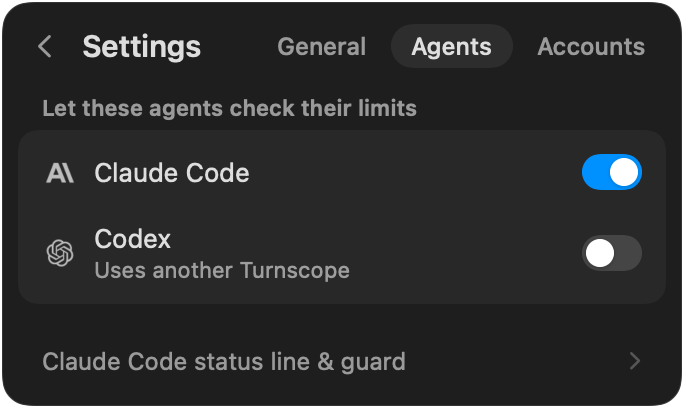
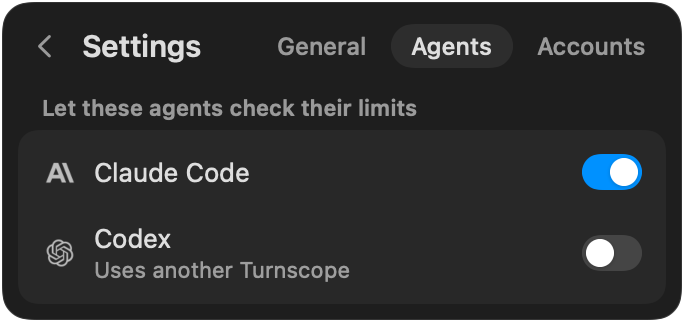
Remove Claude-only status line and guard snippets from Settings

diff --git a/apps/macos/Sources/Settings/AgentsTab.swift b/apps/macos/Sources/Settings/AgentsTab.swift
@@ -10,14 +10,8 @@ struct AgentsTab: View {
         if let empty = settings.agentsEmpty {
             EmptyTabMessage(message: empty)
         } else {
-            let extraAgents = settings.agents.filter { !$0.snippets.isEmpty }
-            VStack(alignment: .leading, spacing: 14) {
-                SettingGroup(title: settings.agentsTitle) {
-                    ForEach(settings.agents) { AgentRow(agent: $0) }
-                }
-                ForEach(extraAgents) { agent in
-                    AgentSnippets(agent: agent)
-                }
+            SettingGroup(title: settings.agentsTitle) {
+                ForEach(settings.agents) { AgentRow(agent: $0) }
             }
         }
     }
@@ -60,90 +54,6 @@ private struct AgentRow: View {
                 )
             )
             .disabled(!agent.enabled)
-        }
-        .padding(Row.padding)
-        .frame(minHeight: Row.setting)
-    }
-}
-
-private struct AgentSnippets: View {
-    @Environment(UIState.self) private var ui
-    var agent: AgentRowModel
-    @State private var hover = false
-
-    var body: some View {
-        let open = ui.openSnippets.contains(agent.id)
-        VStack(alignment: .leading, spacing: Row.spacing) {
-            Button { ui.toggleSnippets(agent.id) } label: {
-                HStack(spacing: 8) {
-                    Text("\(agent.name) status line & guard")
-                        .font(.line)
-                        .foregroundStyle(.secondary)
-                        .frame(maxWidth: .infinity, alignment: .leading)
-                    Image(systemName: "chevron.right")
-                        .font(.system(size: 10, weight: .semibold))
-                        .foregroundStyle(.tertiary)
-                        .rotationEffect(.degrees(open ? 90 : 0))
-                }
-                .padding(Row.padding)
-            }
-            .buttonStyle(RowSurfaceButtonStyle(hover: hover))
-            .onHover { over in withAnimation(.easeOut(duration: 0.10)) { hover = over } }
-            .accessibilityHint(open ? "Folds them" : "Lists copyable JSON snippets")
-
-            if open {
-                VStack(alignment: .leading, spacing: 0) {
-                    ForEach(agent.snippets) { snippet in
-                        SnippetRow(snippet: snippet)
-                    }
-                    if let file = agent.snippets.first?.file {
-                        Text("Paste into \(file). Turnscope never edits it.")
-                            .font(.small)
-                            .foregroundStyle(.tertiary)
-                            .padding(.horizontal, 12)
-                            .padding(.top, 2)
-                            .padding(.bottom, 6)
-                    }
-                }
-                .padding(.vertical, 3)
-                .background(
-                    RoundedRectangle(cornerRadius: Row.radius, style: .continuous)
-                        .fill(Color.primary.opacity(0.05))
-                )
-                .transition(appears)
-            }
-        }
-    }
-}
-
-private struct SnippetRow: View {
-    var snippet: SnippetModel
-    @State private var copied = false
-    @State private var clearCopy: Task<Void, Never>?
-
-    var body: some View {
-        HStack(spacing: Row.gap) {
-            VStack(alignment: .leading, spacing: 1) {
-                Text(snippet.title).font(.name)
-                Text(snippet.detail)
-                    .font(.small)
-                    .foregroundStyle(.secondary)
-                    .fixedSize(horizontal: false, vertical: true)
-            }
-            .frame(maxWidth: .infinity, alignment: .leading)
-            Button(copied ? "Copied" : "Copy JSON") {
-                copyToPasteboard(snippet.json)
-                clearCopy?.cancel()
-                withAnimation(.easeOut(duration: 0.12)) { copied = true }
-                clearCopy = Task { @MainActor in
-                    try? await Task.sleep(for: .seconds(1.5))
-                    guard !Task.isCancelled else { return }
-                    withAnimation(.easeOut(duration: 0.16)) { copied = false }
-                }
-            }
-            .buttonStyle(PillButton())
-            .help("Copies JSON snippet for \(snippet.file)")
-            .accessibilityLabel("Copy \(snippet.title) JSON")
         }
         .padding(Row.padding)
         .frame(minHeight: Row.setting)

diff --git a/apps/macos/Sources/Bridge.swift b/apps/macos/Sources/Bridge.swift
@@ -51,7 +51,6 @@ final class UIState {
     var openAccount: String?
     var unusedOpen = false
     var hiddenShown = false
-    var openSnippets: Set<String> = []
     var pendingAccount: String?
     var focusNonce = 0
 
@@ -61,7 +60,6 @@ final class UIState {
         openAccount = nil
         unusedOpen = false
         hiddenShown = false
-        openSnippets = []
         pendingAccount = nil
     }
 
@@ -115,14 +113,6 @@ final class UIState {
     func toggleHidden() {
         withAnimation(spring) {
             hiddenShown.toggle()
-        }
-    }
-
-    func toggleSnippets(_ agent: String) {
-        withAnimation(spring) {
-            if !openSnippets.insert(agent).inserted {
-                openSnippets.remove(agent)
-            }
         }
     }
 

diff --git a/apps/macos/Sources/Models.swift b/apps/macos/Sources/Models.swift
@@ -240,15 +240,6 @@ struct EmptyMessage: Decodable, Equatable {
     var detail: String
 }
 
-struct SnippetModel: Decodable, Equatable, Identifiable {
-    var title: String
-    var detail: String
-    var file: String
-    var json: String
-
-    var id: String { title }
-}
-
 struct AgentRowModel: Decodable, Equatable, Identifiable {
     var id: String
     var name: String
@@ -257,7 +248,6 @@ struct AgentRowModel: Decodable, Equatable, Identifiable {
     var changing: String?
     var connected: Bool
     var enabled: Bool
-    var snippets: [SnippetModel]
 }
 
 struct AccountSwitchModel: Decodable, Equatable, Identifiable {

diff --git a/crates/turnscope-app/src/view.rs b/crates/turnscope-app/src/view.rs
@@ -171,15 +171,6 @@ pub struct EmptyMessage {
 
 #[derive(Clone, Debug, PartialEq, Eq, Serialize)]
 #[serde(rename_all = "camelCase")]
-pub struct SnippetModel {
-    pub title: String,
-    pub detail: String,
-    pub file: String,
-    pub json: String,
-}
-
-#[derive(Clone, Debug, PartialEq, Eq, Serialize)]
-#[serde(rename_all = "camelCase")]
 pub struct AgentRowModel {
     pub id: String,
     pub name: String,
@@ -188,7 +179,6 @@ pub struct AgentRowModel {
     pub changing: Option<String>,
     pub connected: bool,
     pub enabled: bool,
-    pub snippets: Vec<SnippetModel>,
 }
 
 #[derive(Clone, Debug, PartialEq, Eq, Serialize)]
@@ -459,10 +449,9 @@ fn build_settings(s: &State) -> SettingsModel {
         EmptyMessage { headline, detail }
     });
     let agents_title = words::agents_title(s.from_disk_image).to_owned();
-    let binary = crate::binary().to_string_lossy().into_owned();
     let agents = installed
         .iter()
-        .map(|agent| build_agent_row(s, agent, &binary))
+        .map(|agent| build_agent_row(s, agent))
         .collect();
 
     let accounts_empty = s.all().is_empty().then(|| {
@@ -507,30 +496,12 @@ fn build_settings(s: &State) -> SettingsModel {
     }
 }
 
-fn build_agent_row(s: &State, agent: &Agent, binary: &str) -> AgentRowModel {
+fn build_agent_row(s: &State, agent: &Agent) -> AgentRowModel {
     let changing = s.changing_agents.get(&agent.id).copied();
     let note =
         s.agent_errors.get(&agent.id).cloned().or_else(|| {
             words::connection(agent).filter(|_| agent.connection != Connection::Available)
         });
-    let snippets = if s.from_disk_image {
-        Vec::new()
-    } else {
-        turnscope::agents::by_id(&agent.id)
-            .map(|found| {
-                found
-                    .snippets(binary)
-                    .into_iter()
-                    .map(|snippet| SnippetModel {
-                        title: snippet.title.to_owned(),
-                        detail: snippet.detail.to_owned(),
-                        file: snippet.file.to_owned(),
-                        json: snippet.json,
-                    })
-                    .collect()
-            })
-            .unwrap_or_default()
-    };
     AgentRowModel {
         id: agent.id.clone(),
         name: agent.name.clone(),
@@ -539,7 +510,6 @@ fn build_agent_row(s: &State, agent: &Agent, binary: &str) -> AgentRowModel {
         changing: changing.map(|to| words::agent_changing(to).to_owned()),
         connected: changing.unwrap_or(agent.connection) == Connection::Connected,
         enabled: changing.is_none() && !s.from_disk_image && !s.stopped(),
-        snippets,
     }
 }
 

diff --git a/crates/turnscope/src/agents/claude_code.rs b/crates/turnscope/src/agents/claude_code.rs
@@ -40,7 +40,7 @@ use serde::{Deserialize, Serialize};
 use serde_json::Value;
 use serde_json::value::RawValue;
 
-use super::{Agent, Credential, Info, Login, Read, Response, Secret, Snippet, Title, Tokens};
+use super::{Agent, Credential, Info, Login, Read, Response, Secret, Title, Tokens};
 use crate::{Error, Result};
 
 pub struct ClaudeCode;
@@ -485,50 +485,6 @@ impl Agent for ClaudeCode {
 
     fn mcp_command(&self, folder: &Path, home: &Path) -> Option<String> {
         super::json_mcp_command(&settings(folder, home), "/mcpServers/turnscope/command")
-    }
-
-    fn snippets(&self, binary: &str) -> Vec<Snippet> {
-        let cmd = |args: &str| {
-            if binary
-                .bytes()
-                .all(|b| b.is_ascii_alphanumeric() || b"/-_.+".contains(&b))
-            {
-                format!("{binary} {args}")
-            } else {
-                format!("'{}' {args}", binary.replace('\'', "'\\''"))
-            }
-        };
-        let statusline = serde_json::json!({
-            "statusLine": {
-                "type": "command",
-                "command": cmd("statusline")
-            }
-        });
-        let guard = serde_json::json!({
-            "hooks": {
-                "PreToolUse": [{
-                    "matcher": "Agent",
-                    "hooks": [{
-                        "type": "command",
-                        "command": cmd("guard --limit week --below 10")
-                    }]
-                }]
-            }
-        });
-        vec![
-            Snippet {
-                title: "Status line",
-                detail: "Shows your limits in Claude Code's footer",
-                file: "~/.claude/settings.json",
-                json: serde_json::to_string_pretty(&statusline).unwrap_or_default(),
-            },
-            Snippet {
-                title: "Subagent guard",
-                detail: "Stops subagents below 10% weekly",
-                file: "~/.claude/settings.json",
-                json: serde_json::to_string_pretty(&guard).unwrap_or_default(),
-            },
-        ]
     }
 }
 

diff --git a/crates/turnscope/src/agents/mod.rs b/crates/turnscope/src/agents/mod.rs
@@ -109,21 +109,6 @@ pub trait Agent: Sync {
     /// The command that `folder`'s configuration runs for Turnscope's MCP
     /// server, if any. Each of its folders keeps its own.
     fn mcp_command(&self, folder: &Path, home: &Path) -> Option<String>;
-
-    /// Optional config snippets beyond MCP (such as status line or hooks),
-    /// copied by the user into their own settings file.
-    fn snippets(&self, _binary: &str) -> Vec<Snippet> {
-        Vec::new()
-    }
-}
-
-/// A copyable config snippet an agent supports beyond MCP.
-#[derive(Clone, Debug, PartialEq, Eq)]
-pub struct Snippet {
-    pub title: &'static str,
-    pub detail: &'static str,
-    pub file: &'static str,
-    pub json: String,
 }
 
 /// What Turnscope knows of an agent as a program.

diff --git a/crates/turnscope-app/src/lib.rs b/crates/turnscope-app/src/lib.rs
@@ -702,12 +702,6 @@ mod tests {
                             changing: Some("Connecting…".into()),
                             connected: true,
                             enabled: false,
-                            snippets: vec![SnippetModel {
-                                title: "Status line".into(),
-                                detail: "Shows limits in Claude Code".into(),
-                                file: "~/.claude/settings.json".into(),
-                                json: r#"{"statusLine":{"command":"turnscope statusline"}}"#.into(),
-                            }],
                         }],
                         accounts_empty: None,
                         subscriptions: vec![AccountSwitchModel {

diff --git a/docs/app.md b/docs/app.md
@@ -180,7 +180,7 @@ agents and accounts are off, and so are the panel's Hide and Show.
 | Tab | Holds |
 |---|---|
 | General | **Menu bar**: Show (All in use, or Most urgent) and Open at login. **Notify me when**: a switch for each kind of alert. **Updates**: the version (right-click for Copy Diagnostics and Reveal Log in Finder, or Option-click to copy diagnostics), Check now and Check automatically |
-| Agents | Each installed agent, with a switch that connects or disconnects it, and under its name that it runs another copy of Turnscope (hover to see the configured path) or why connecting failed. For agents with hooks or a status line, a collapsed fold offers copyable JSON snippets without editing their settings files |
+| Agents | Each installed agent, with a switch that connects or disconnects it, and under its name that it runs another copy of Turnscope (hover to see the configured path) or why connecting failed |
 | Accounts | Subscriptions, then API keys, each with a switch to show or hide it |
 
 Where each setting is kept:

diff --git a/CHANGELOG.md b/CHANGELOG.md
@@ -20,10 +20,8 @@
   ⌘2, ⌘3 or Left and Right switch Settings tabs. Clicking a session copies
   its project path (or title), and right-clicking offers Open Project in
   Finder, Copy Project Path and Copy Session ID.
-- **Settings → Agents shows copyable Claude Code snippets** for the status
-  line and pre-tool guard, without editing `~/.claude/settings.json`.
-  Hovering "Uses another Turnscope" shows the path the agent is configured
-  to run.
+- **Hovering "Uses another Turnscope" in Settings → Agents** shows the
+  path the agent is configured to run.
 - **Right-clicking the version in Settings → General** (or Option-clicking
   it) copies a diagnostics report or reveals `app.log` in Finder.
 - **Edge-case fixes:** older costs update when prices change, `app.log`

diff --git a/docs/adding-an-agent.md b/docs/adding-an-agent.md
@@ -107,9 +107,6 @@ Beyond those:
 - An agent with `folder_var` keeps a configuration per folder: `connect`
   runs its command once for each folder, pointed at it with `folder_var`.
   So `mcp_command` reads the file that command writes for that folder.
-- `snippets` (optional) returns copyable JSON snippets beyond MCP, such as
-  Claude Code's status line and subagent guard, shown collapsed in
-  Settings → Agents.
 
 ### Reading history
 
